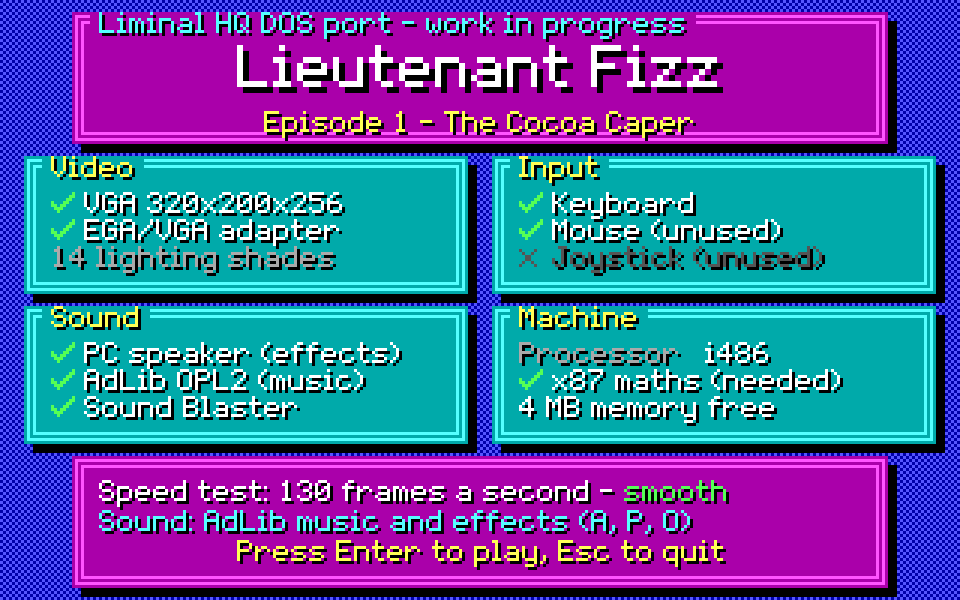
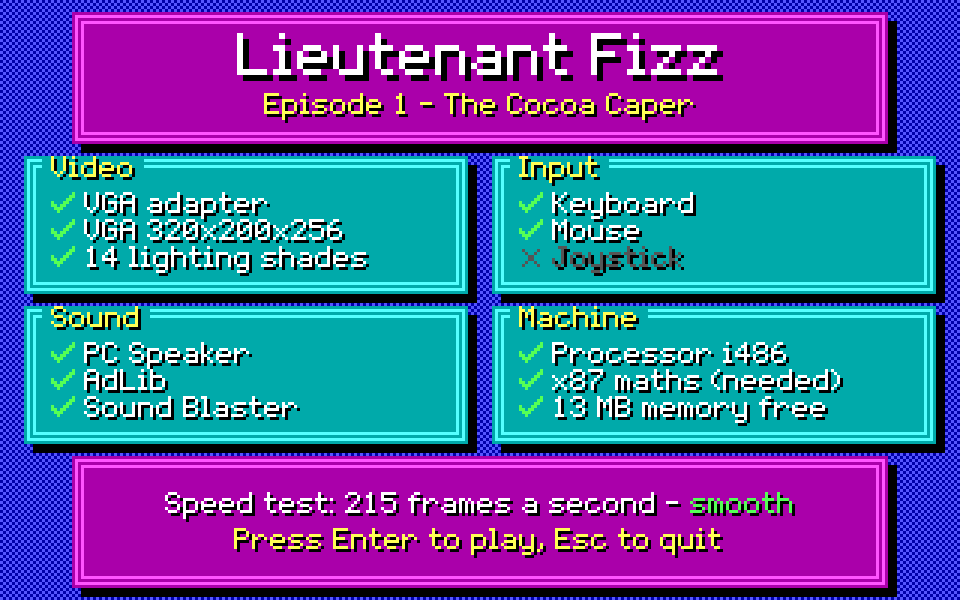
docs: describe the read-only start-up check and what the game needs
The start-up screen no longer picks the sound, so the passages that
taught the A, M, P and O keys now point to the Options screen, and the
places that list requirements say the game needs a VGA, an x87 and
10 MB of free memory.

- `docs/STATUS.md`: what the check shows and when the game does not
  start, and which cases were captured headless in DOSBox Staging
  (`machine = ega`, `cga`, `hercules`, small `memsize`, the
  `cputype`s) and which were drawn from forced probe values (a
  monochrome VGA, no x87).
- `docs/DOS_ARCHITECTURE.md`: the start-up order (the probe before
  `fizz_start`, the text form without a VGA), the adapter
  classification, the memory minimum, the two new exports, and
  `FIZZ.CFG` no longer written on leaving the check nor its sound byte
  read.
- `README.md`, `dist/fizz-dos-demo/README.TXT`, `dist/disk/README.TXT`
  and `.RTF`, `site/index.html`: the check without the sound keys.
- `site/img/preview.png`: the new screen, captured from the DOS build in
  DOSBox with `FIZZ.EXE 255 0 preview shot` and `m3/raw2png.py`.
- `CHANGELOG.md`: the change under Unreleased.

diff --git a/site/index.html b/site/index.html
@@ -62,7 +62,7 @@
           <tr><th scope="row"><kbd>F5</kbd> <kbd>F9</kbd></th><td>Quick-save, quick-load (in play)</td></tr>
         </tbody>
       </table>
-      <p>On the system check, <kbd>A</kbd> plays everything on AdLib, <kbd>M</kbd> puts the music on AdLib and the effects on the PC speaker, <kbd>P</kbd> uses the PC speaker alone and <kbd>O</kbd> turns sound off. Options has frame rate and detail settings if it runs slowly. In the browser, saves and options last until the page is reloaded.</p>
+      <p>Options turns the music and effects on and off and, with an AdLib, chooses whether the effects play on it or on the PC speaker; it also has frame rate and detail settings if it runs slowly. In the browser, saves and options last until the page is reloaded.</p>
     </section>
 
     <section aria-labelledby="about-title">

diff --git a/docs/DOS_ARCHITECTURE.md b/docs/DOS_ARCHITECTURE.md
@@ -29,15 +29,18 @@ The two big caches are deliberately all-zero at start (`BakeCache`'s keys use bi
 `main` in `m4/c/main.c`, interactive path (no tick count on the command line):
 
 ```
-settings_load()                 FIZZ.CFG → sound, music, effects, device, frame rate, detail, night
+settings_load()                 FIZZ.CFG → music, effects, device, frame rate, detail, night
 parse argv[3..]                 overrides for this run (nosound, adlib, mixed, speaker, fps30, lowdetail, night, ...)
-fizz_start(level, 1)            Rust: fldcw 0x027F (53-bit precision), new game, title/map/level, sprite size table
+compat_probe()                  the system check's hardware probes, before the game takes its memory
+fizz_start(level, 1)            only when the machine has what the game needs (fizz_preview_ready)
+                                Rust: fldcw 0x027F (53-bit precision), new game, title/map/level, sprite size table
 fizz_night(night)
+no VGA?                         the check as text (fizz_preview_text), wait for Esc, exit
 kbd_install()                   IRQ 1 handler (interrupt 9)
 vga_open()                      near pointers on, INT 10h AX=0013h
 palette slots 0..254            from the 16 EGA colours × 15 levels (slot 255 is set every frame)
-compat_probe() + speed_test()   the system check: hardware probes, then 3 + 30 trial frames timed with uclock()
-system-check loop               fizz_preview → vsync → present; A/M/P/O pick the sound, Enter/Space go on, Esc leaves
+speed_test()                    3 + 30 trial frames timed with uclock(), when the game can start
+system-check loop               fizz_preview → vsync → present; Enter/Space go on when the game can start, Esc leaves
 wait for Enter/Space release    and clear their latches, so the title menu does not take the same press
 snd_init(sound.bin, mode)       detect the OPL2, lock memory, IRQ 0 handler (interrupt 8), PIT to 560 Hz
 snd_set_music/fx/fx_device      from FIZZ.CFG
@@ -49,8 +52,9 @@ snd_shutdown()                  old interrupt 8 vector back, PIT to 18.2 Hz, OPL
 
 - The level argument is a number, `map` (254 to the game) or nothing (255, the title screen). A second argument (ticks) selects a scripted run: no keyboard hook, no system check, one tick a frame (`fizz_scripted` supplies the input), and with `shot` the frame and palette are written to `FRAME.RAW` and `PAL.RAW` at the end. `bench`, `soundtest`, `savecfg`, `preview` and the screen names (`pause`, `options`, `load`, `save`, `dialogue`, `loadslotN`) are check modes listed in the comment at the top of `main.c`.
 - The precision control is set inside `fizz_start`, before the simulation's first tick (`fpu_53` in `m2/dos-rt/src/lib.rs`); see [ARCHITECTURE.md](ARCHITECTURE.md#keeping-the-simulation-identical) for why.
-- **The system check** runs before the sound handler takes the timer, so `uclock()` (which reads the PIT and the BIOS tick count) is still trustworthy. `compat_probe` (`m4/c/compat.c`) asks the video BIOS for the display combination (INT 10h AX=1A00h: VGA is BL 7 or 8) and EGA information (INT 10h AH=12h BL=10h), the mouse driver (INT 33h AX=0), the game port (port `0x201` not `0xFF`), the OPL2 (`snd_detect_opl`), a Sound Blaster DSP reset at `0x226`/`0x22A`/`0x22E` answering `0xAA` (`snd_detect_blaster`), an x87 (after `fninit`, `fnstcw` must read back the default control word's bits), free physical memory (`_go32_dpmi_remaining_physical_memory`) and the processor name (`uname`). `speed_test` renders three warm-up frames, then times 30 frames of `fizz_build` + `fizz_paint` (no present) and reports frames a second. The slots are the `C_*` enum in `m4/c/compat.h`, mirrored by the constants in `m2/dos-rt/src/preview.rs`, which draws the screen and grades the speed: 90 or more smooth, 62 or more fine, 40 or more borderline, below that too slow.
-- Leaving the system check with Enter or Space saves the sound choice to `FIZZ.CFG`; Esc restores text mode and the keyboard and exits before any sound is set up.
+- **The system check** runs before the sound handler takes the timer, so `uclock()` (which reads the PIT and the BIOS tick count) is still trustworthy, and before `fizz_start`, so the free memory it reads is what the game can have. `compat_probe` (`m4/c/compat.c`) classifies the video adapter with `compat_video`: the display combination (INT 10h AX=1A00h: BL 8 is a colour VGA, 7 a monochrome one; the MCGA codes are not taken as a VGA), then EGA information (INT 10h AH=12h BL=10h: BL changes on an EGA), then the BIOS equipment word (INT 11h bits 4-5: 01 or 10 a CGA, 11 an MDA or Hercules). It also asks the mouse driver (INT 33h AX=0), the game port (port `0x201` not `0xFF`), the OPL2 (`snd_detect_opl`), a Sound Blaster DSP reset at `0x226`/`0x22A`/`0x22E` answering `0xAA` (`snd_detect_blaster`), an x87 (after `fninit`, `fnstcw` must read back the default control word's bits), free physical memory (`_go32_dpmi_remaining_physical_memory`) and the processor name (`uname`). `speed_test` renders three warm-up frames, then times 30 frames of `fizz_build` + `fizz_paint` (no present) and reports frames a second. The slots are the `C_*` enum in `m4/c/compat.h` (and the adapter classes its `VIDEO_*` enum), mirrored by the constants in `m2/dos-rt/src/preview.rs`, which draws the screen and grades the speed: 90 or more smooth, 62 or more fine, 40 or more borderline, below that too slow.
+- **What the game needs** is a VGA (mode 13h), an x87 and 10 MB of free memory (`MEMORY_NEEDED_KB` in `preview.rs`): starting the game takes about 9.4 MB at once, nearly all of it the simulation's instance buffer (120,000 instances of 20 floats, written whole). When one is missing `fizz_preview_ready` says no, `fizz_start` is not called, the speed test is not run, and the screen's footer names what is missing; only Esc leaves. Mode 13h is set only on a VGA: without one the same rows are written in colour on the text screen (`fizz_preview_text`, bytes below 8 setting the colour) and the program waits for Esc. With `preview` the picture is still drawn into the frame for `FRAME.RAW` and the text goes to standard output, so each case can be checked headless (DOSBox's `machine = ega`, `cga` or `hercules`, or a small `memsize`).
+- The system check is read-only: Esc restores text mode and the keyboard and exits before any sound is set up, and Enter or Space go on. The sound mode is auto unless the command line names one; the music, effects and effects' device come from `FIZZ.CFG` (the Options screen).
 - **Restoring the machine.** Both hooks also register their remove function with `atexit`, and both remove functions are idempotent (an `installed` flag), so the vectors come back on any normal exit path, including `exit()` from the C library. A crash inside protected mode (a page fault, a panic's endless loop) does not run `atexit` handlers.
 
 ## Interrupts
@@ -197,7 +201,7 @@ The music stream loops; an effect stream plays once. Music is chosen by `choose_
 | Speaker (2) | none | speaker | speaker effects (no OPL2 detection) |
 | Off (3) | none | none | — |
 
-`snd_init` returns the mode actually in use, and `sound_using` in `main.c` predicts it for the system-check screen from the probe's OPL2 result. The Options screen can toggle music and effects and switch the effects between OPL2 and speaker (`snd_set_fx_device`, which falls back to the speaker when there is no OPL2). The Sound Blaster probe is shown on the system check only; there is no digitised sound.
+`snd_init` returns the mode actually in use. The Options screen can toggle music and effects and switch the effects between OPL2 and speaker (`snd_set_fx_device`, which falls back to the speaker when there is no OPL2). The Sound Blaster probe is shown on the system check only; there is no digitised sound.
 
 ## Files
 
@@ -205,7 +209,7 @@ All files are in the current directory, through `m4/c/save.c` (`fopen`, `fread`,
 
 | Slot | File | Size | Written |
 |---|---|---|---|
-| −1 | `FIZZ.CFG` | 12 bytes | after each change on the Options screen, when the system check is left with Enter, and by `FIZZ savecfg` |
+| −1 | `FIZZ.CFG` | 12 bytes | after each change on the Options screen and by `FIZZ savecfg` |
 | 0 | `AUTO.SAV` | 48 bytes | on every visit to the map (`autosave` in `shell.rs`), as the web build does |
 | 1–4 | `SLOT1.SAV` … `SLOT4.SAV` | 48 bytes | from the Save list |
 | 5 | `QUICK.SAV` | 48 bytes | F5 in a level, on the map or in the pause menu; F9 loads it (`quick_keys` in `shell.rs`) |
@@ -242,7 +246,7 @@ Loading starts a new game and sets these through the simulation's `state_set`; t
 | 7 | frame rate (0 auto, 1 60 Hz, 2 30 Hz) |
 | 8 | detail (0 auto, 1 high, 2 low) |
 | 9 | night |
-| 10 | sound choice (`SND_*`) |
+| 10 | sound choice: written as 0 (auto) and not read, as the start-up screen no longer offers one |
 | 11 | spare |
 
 Out-of-range values fall back to auto. Command-line arguments override the file for that run only.
@@ -273,6 +277,8 @@ All calls are plain `extern "C"` with 32-bit integers, `f32` and raw pointers; t
 | `fizz_goto_map()` | back to the overworld |
 | `fizz_press(mode)` | a check: steer the scripted walk to a map marker and press, or not |
 | `fizz_preview(frame, values, cpu)` | draws the system-check screen from the probe values |
+| `fizz_preview_ready(values)` | whether the machine has what the game needs: a VGA, an x87 and enough memory |
+| `fizz_preview_text(values, cpu, out, cap)` | writes the system-check screen as text with colour codes, for a machine without a VGA |
 | `fizz_quit()` | whether the player chose Quit from a menu |
 | `fizz_show(n)` | a check: opens a menu or screen directly (`FIZZ.EXE`'s `pause`, `options`, `ending`, `cineN`, `titles` and the like; 200 is the opening titles from their first tick) |
 

diff --git a/docs/STATUS.md b/docs/STATUS.md
@@ -5,7 +5,8 @@ Where the DOS port stands against the main game (`liminal-hq/lieutenant-fizz`, E
 ## What plays
 
 - **The game:** the title with its attract loop, the overworld, every level in the simulation (0 to 15), the boss fights with their dialogue, lives, score, Fizz ammo and extra lives.
-- **The shell:** a start-up system check (video, input, sound and maths hardware, and a speed test of the real renderer), title, pause, options, load and save lists, a boxed HUD, map prompts, floating caption words, toasts and result cards, a controls screen (from the title and the pause menu) and a key hint under each menu, and Ben on the title wordmark (he bobs, leans, hops up and pogoes across it, turns to the menu and waves on a pick), with fades between screens.
+- **The shell:** a start-up system check, title, pause, options, load and save lists, a boxed HUD, map prompts, floating caption words, toasts and result cards, a controls screen (from the title and the pause menu) and a key hint under each menu, and Ben on the title wordmark (he bobs, leans, hops up and pogoes across it, turns to the menu and waves on a pick), with fades between screens.
+- **The start-up check:** a read-only screen of what the machine has for the game, in four panels: Video (a VGA adapter, the 320 × 200 × 256 mode — on a machine without a VGA, the best mode it has, from EGA 640 × 350 × 16 down to 80 × 25 mono text — and the 14 lighting shades that come with the VGA), Input (keyboard, mouse, joystick; the game uses neither of the last two yet), Sound (PC speaker, AdLib, Sound Blaster) and Machine (the processor's family code, the x87 and free memory). A speed test of the real renderer follows. Without a VGA, an x87 or 10 MB of free memory the game does not start: the speed test is not run and the footer names what is missing, and only Esc leaves. Mode 13h is only set on a VGA; without one the check is written on the text screen. The sound is chosen on the Options screen.
 - **The opening titles:** the game opens with Liminal HQ presents, the *Lieutenant Fizz* wordmark and a chase (Ben stunning the Zargs with fizz bubbles) over a score of its own, 12.8 s in mode 13h, then the title menu. Any key skips them. They play again, for two loops, when the title menu has sat untouched for two loops of its song (about two minutes); any key, or leaving the menu and coming back, starts that wait again. The picture is checked against the design's own drawing routine, ported as an oracle, frame for frame.
 - **The opening:** New Game from the title plays the eight-scene cinematic (the backyard, the lab, the liftoff, the flight and the landing) as letterboxed pictures with the typed text and the scene's music, then goes to the map with a word about where to start. Esc skips it. Out of lives still starts a new game without it.
 - **The ending:** after the last boss, four letterboxed panels typed out at the main game's speed, the credits roll (Enter speeds it up, Esc skips) with the ending's music, and an end card that returns to the title.
@@ -41,6 +42,7 @@ Nothing of Episode 1's play or presentation is left. The web and app builds' pla
 - **The titles.** All 768 frames of one loop from the native bench, and 17 frames of the DOS build in DOSBox, are byte-identical to the oracle's. The flow (a loop and then the menu, a key's fade, the idle wait ending, two loops and then the menu, a key moving the wait back) is run by the bench's `FLOWTEST` with the music clock unavailable, so by game ticks.
 - **Menus.** A pause-menu Resume with Enter held does not enter the level on the map; the start-up screen's Enter does not reach the title.
 - **Options.** A `FIZZ.CFG` is read and shown on the Options screen, and options saved from the command line load again.
+- **The start-up check's cases.** The drawn screen was captured headless in DOSBox Staging on its default VGA machine, with `machine = ega`, `cga` and `hercules` (each read as its adapter, the game not started) and with `memsize = 8` and `4` (short of memory, the game not started), and the processor row read `i386`, `i486` and `i586` with `cputype = 386`, `486` and `pentium`. A monochrome VGA and a missing x87 cannot be set up in DOSBox Staging; those rows were drawn from forced probe values. The text form of the check on a machine without a VGA was read from standard output; its colours on a real text screen were not looked at.
 
 ## Not verified
 

diff --git a/README.md b/README.md
@@ -21,7 +21,7 @@
 
 **From a release:** [the releases page](https://github.com/ScottMorris/lieutenant-fizz-dos/releases) has a 1.44 MB floppy image (`-floppy.img`, volume label `FIZZ EP1`), the same files as a zip for copying to a real disk or folder (`-disk.zip`), the DOSBox demo (`-dosbox.zip`), the browser bundle (`-browser.jsdos`, for any js-dos 8 player), a debug zip (`-debug.zip`, the same game with its symbols, for reading a crash's traceback) and `SHA256SUMS`. The game in a release is stripped of its symbols and debugging sections, a quarter smaller. `CHANGELOG.md` lists what changed. `tools/make-release.sh <version>` builds them.
 
-**In DOSBox:** unpack `dist/fizz-dos-demo.zip` (or build it, below) and run `dosbox --conf DOSBOX.CONF` in the folder. `FIZZ.EXE` starts at a system check in the manner of Keen's — the hardware it found, a speed test of the real renderer and the sound it will use (A AdLib for everything, M music on AdLib with effects on the speaker, P speaker only, O off) — and Enter continues to the opening titles (any key skips them) and then the title.
+**In DOSBox:** unpack `dist/fizz-dos-demo.zip` (or build it, below) and run `dosbox --conf DOSBOX.CONF` in the folder. `FIZZ.EXE` starts at a system check in the manner of Keen's — the video, input, sound and machine hardware it found and a speed test of the real renderer — and Enter continues to the opening titles (any key skips them) and then the title. The game needs a VGA, an x87 and 10 MB of free memory; without one of them the check says what is missing and only Esc leaves. The sound is set on the Options screen.
 
 | Key | Action |
 |---|---|

diff --git a/CHANGELOG.md b/CHANGELOG.md
@@ -4,6 +4,12 @@ What changed in each release of Lieutenant Fizz for DOS. A release is a tag `vX.
 
 ## Unreleased
 
+### Changed
+
+- The start-up system check is read-only and shows what the game needs. Video lists the VGA adapter, the 320 × 200 × 256 mode (or, without a VGA, the best mode the machine has: EGA, CGA or monochrome text) and the 14 lighting shades; Input the keyboard, mouse and joystick; Sound the PC speaker, AdLib and Sound Blaster; Machine the processor, the x87 and free memory. Without a VGA, an x87 or 10 MB of free memory the speed test is not run, the footer names what is missing and only Esc leaves. The A, M, P and O sound keys are gone; the sound is set on the Options screen, and the sound choice kept in `FIZZ.CFG` is no longer read.
+- The game no longer sets VGA mode 13h on a machine without a VGA: the system check is written on the text screen instead.
+- The title plate no longer carries the "work in progress" legend.
+
 ## 0.2.1 — 2026-10-22
 
 The game is the same as 0.2.0, 24% smaller. Nothing has run on real hardware yet; see `docs/STATUS.md`.
